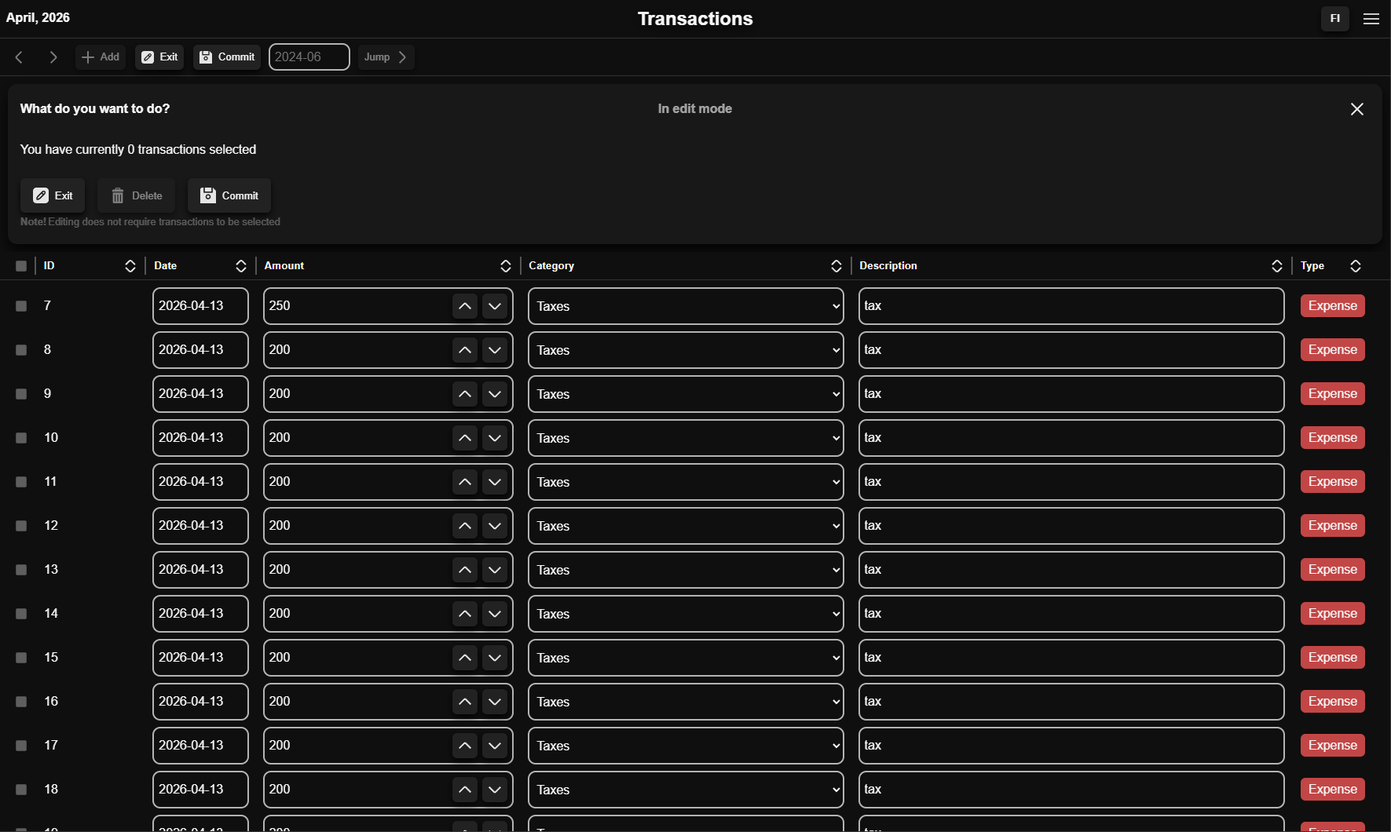
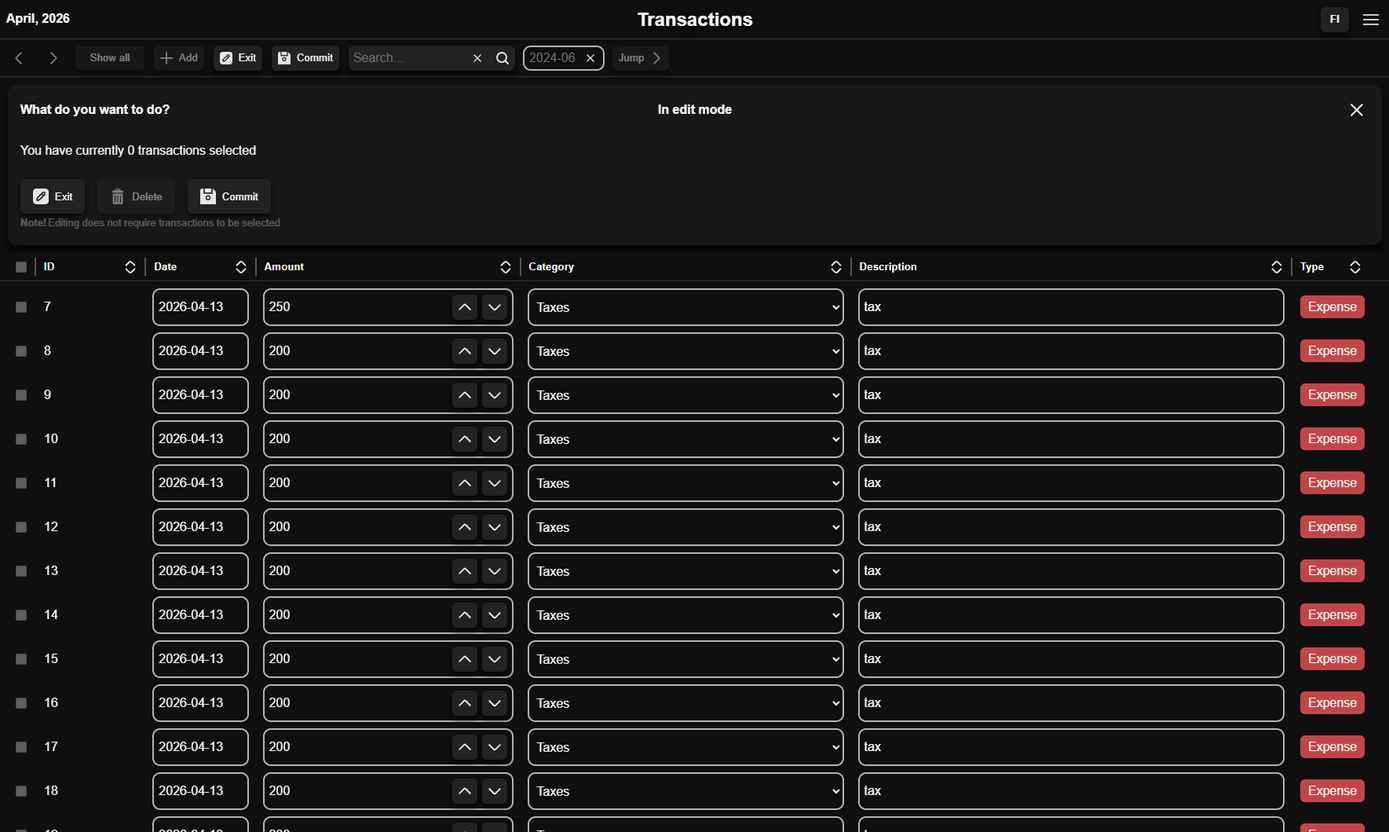
Feat: About me page   - Added an initial about me route   - Re-wrote project descriptions.   - Updated FinRadar project images.   - Adjusted media query to prevent overlap of the new about me route.

diff --git a/src/lib/i18n.ts b/src/lib/i18n.ts
@@ -5,7 +5,7 @@ type Language = 'en' | 'fi'
 
 const translations: Record<Language, Record<string, string | string[]>> = {
   en: {
-    "navigation.anchors.names": ["Home", "Projects"],
+    "navigation.anchors.names": ["Home", "Projects", "About me"],
     "page-not-found": ["Something went wrong.", "Page not found.", "The page you are looking for does not exist."],
   
     "project.finance-tracker.description": "My first project. A desktop and a web app for tracking, predicting, and visualizing finances.",
@@ -20,8 +20,8 @@ const translations: Record<Language, Record<string, string | string[]>> = {
     "project.focusboard.imagetexts": ["Make notes, customize and order them to your liking and keep everything neat with tabs.", "Add a timer to alert you, and optionally a message.", "Keep track of your events with the calendar.", "Get an in-depth perspective of your events for a selected day."],
     "project.focusboard.imagenotes": "All of the vertical grid lines might not be captured in the image.",
 
-    "project.fin-radar.description": "A polished, completely redone version of my first project, the finance tracker.",
-    "project.fin-radar.imagetexts": ["Your data is behind authentication.", "Your home page and menu. Add transactions and control your data.", "Table of your transactions. Add, edit and jump to specific dates.", "Make changes to your added transactions."],
+    "project.fin-radar.description": "A polished, completely redone version of my first project, the finance tracker. Also integrates FocusBoard.",
+    "project.fin-radar.imagetexts": ["Your data is behind authentication.", "Your home page and menu. Add transactions and control your data.", "Table of your transactions. View, add, edit and search your transactions.", "Make changes to your added transactions."],
 
     // ALERTS
     "alert.message.github": "Continue to GitHub?",
@@ -57,39 +57,53 @@ const translations: Record<Language, Record<string, string | string[]>> = {
     "projects.project.repository": "Project repository",
     "projects.project.imagetitle": "Project Images",
     "projects.project.finance-tracker.paragraph": [
-      "This was my first real project. The purpose behind this app was for it to be something I would personally use. Before this, I had only made simple stuff with Python like calculators, to-do lists, and basic CLI-based tools.",
-      "This was supposed to be a simple tracking app for finances made with Python and a combination of Tkinter and the modernized customTkinter for the GUI, but I decided to jump into machine learning since it had been a couple of years since I last had worked with ML \
-      and it was the next clear step for the app. When the app began to have functionality, I wanted to create an easy way to test it, so I decided to make a web app for it, which led me to learn some Django, JavaScript, CSS, and HTML. \
-      I also needed a platform to host it on and found NorthFlank, where I needed to learn how their app deployment works.",
-      "As I have continued to code, I have learned a lot along the way, and looking back at this app, naturally, I see there are many things I would do differently, and there are a lot of flaws in its code. \
-      My plan was to come back and fix its code, but that would require me to quite frankly write everything from scratch, which has led me to make the decision, that I would create the app on another stack, using Tauri, Svelte.js and Python. \
-      This also serves as a next step in my learning, where I need to figure out how I can combine Tauri's Rust backend with Python and make that work with the Svelte frontend."
+      "This project is a personal finance tracking application designed for managing expenses and analyzing spending patterns. It started as a desktop application built with Python (Tkinter + customTkinter) and later evolved into a web application using Django.",
+      "Key features the app includes:",
+      "• Expense tracking and categorization",
+      "• Authentication and authorization",
+      "• A machine learning component for predicting future expenses",
+      "• Data visualizations",
+      "To improve accessability, usability, and testing, I extended the project into a web app, which required learning Django, frontend basics (JavaScript, HTML, CSS), and deploying the appliaction using NorthFlank.",
+      "Looking back, the project has its limitations, especially in code structure. Instead of patching it, I decided to rebuild it using a more modern stack (Tauri + Svelte), while applying what I have learned about cleaner architecture and better coding practices."
     ],
     "projects.project.finance-tracker.variant": ["Desktop", "Web"],
     "projects.project.waste-classifier.paragraph": [
-      "This was my second project. The main reason for me to create this app was to bring back some concepts of ML and try refresh my memory. I had previous experience from a few years (in ~2024) back when I had coursework, where I needed to find the best model to classify tree species. \
-      Some of the models were VGGNet19 and 16, Inception, Xception, and ResNet and I used the TensorFlow Keras as the framework. But with this project I needed to use PyTorch and so I just jumped straight into it. Since it had been a long time since I last did anything with classifiers, \
-      and it was my first time using PyTorch, I relied a lot on other people's work. I did implement Optuna myself, since I had recently worked with it.",
-      "I wanted to use PyQt as my frontend so I went with that. I trained my own models and used the TrashNet dataset for training. I split the training to two stages, where the first stage was for training the model fast and getting the foundation up, \
-      and then the second stage for fine tuning and slower learning. I used MobileNetV4 initially, but switched to DenseNet201 since it was performing a lot better. MobileNetV4 is meant to be lightweight and compact, which is why I initially chose it, and is aimed for mobile devices. \
-      I was averaging around 79-87% accuracy with MobileNet, but got consistent results around 97% with DenseNet.",
-      "I would have liked to learn techniques on how to tackle machine vision to differentiate surfaces that share similar features, like gloss, reflectivity and so on, for example metal vs. glass vs. glossy plastic, since this was one of the main issues I think I had with the MobileNet model, \
-      where it repeatedly mistook these materials between each other, but found it extremely difficult, so I moved on to my other project."
+      "This project is an image classification application for sorting waste into categories using deep learning. The goal was to revisit machine learning concepts and apply them in a practical setting using PyTorch.",
+      "The model was trained on the TrashNet dataset using a two-stage training approach:",
+      "• Initial training phase to establish baseline performance",
+      "• Fine-tuning phase with slower learning for improved accuracy",
+      "I experimented with some models and found that DenseNet201 significantly outperformed MobileNet, achieving a consistent accuracy around 97%, compared to 79% - 87% with MobileNet.",
+      "The application includes a PyQt-based interface for interacting with the classifier.",
+      "One of the main challenges was distinguishing between visually similar materials (e.g. glass, metal, and glossy plastic), which exposed limitations in the model's ability to generalize based on surface properties. To address this, it would likely require more advanced feature engineering or dataset improvements."
     ],
     "projects.project.focusboard.paragraph": [
-      "This is my third ever project. I was interested in how some companies like Discord create their apps so I began investigating and found out they use something called Electron, which I didn't know anything about at that point in time. I found out that it uses a browser engine (Chromium) to render the app's UI, \
-      but runs natively like a desktop app. I explored other options and stumbled across Tauri, which uses Rust, and I had been curious about Rust so I chose this to run my next app, which was a note-taking/productivity-ish app. Tauri is used similarly to Electron, but doesn't use a full browser engine to render the app, \
-      but instead uses the operating system's native WebView (e.g. WebView2 on Windows and WKWebView on macOS).", "Next, I needed to choose the frontend and I had heard great things about Svelte.js and its performance so I went with that. As I have been working on this project, I have fallen in love with Tauri and Svelte, \
-      even though Rust is very different and a lot more difficult of a language when compared to others. I wouldn't say because its inherently difficult, but there are things and concepts that no other language really has, for example ownership.", "The motivation behind this app is the same as with my Finance Tracker, \
-      I am building this for myself. I know there are many options out there, like Microsoft's own app bundle (includes a calendar, to-do list, etc.), Obsidian, and Google NotebookLM, but by having my own application I get privacy and the ability to control everything, so if I am not the biggest fan of some feature, \
-      I can change and tweak it."
+      "This project is a desktop note-taking and productivity application built with Tauri and Svelte. The goal was to create a lightweight, private alternative to existing tools while maintaining full control over features and data.",
+      "The application includes:",
+      "• Note creation, organization, and customization",
+      "• Calendar and a timer with customizable notifications",
+      "I chose Tauri over Electron since it doesn't bundle a full browser engine and instead uses the operating system's native WebView, which reduces resource usage and application size. This decision also introduced Rust into the backend, which required learning concepts such as ownership.",
+      "One of the main challenges was working with components in Svelte, especially how to pass variables between the parent and child components.",
+      "This project is part of a broader effort to build tools I actively use myself."
     ],
     "projects.project.fin-radar.paragraph": [
-      "This is my fourth project. I am recreating my first project, but now with a lot more knowledge and experience. It is currently in its very early development."
+      "This project's aim is to bring together my past projects. It combines the finance tracker and FocusBoard applications into one.",
+      "The current functions of the app:",
+      "• Account registration, login, and recovery",
+      "• Home page",
+      "• Transactions table to view, edit, and search transactions",
+      "• Two localizations: English and Finnish",
+    ],
+
+    // ABOUT ME
+    "about-me.hobbies.titles": ["Mountain biking", "3D modeling & printing", "Programming"],
+    "about-me.hobbies.paragraphs": [
+      "Mountain biking is my way of staying active. I enjoy the technical skill and logical decisions you need on the trails.",
+      "I design and 3D print my own small projects, bringing solutions to my needs.",
+      "In my free time, I build programs for my needs. I always try to think of different options for my problem and and choose the most effective one in relation to the added complexity."
     ],
   },
   fi: {
-    "navigation.anchors.names": ["Koti", "Projektit"],
+    "navigation.anchors.names": ["Koti", "Projektit", "Tietoa minusta"],
     "page-not-found": ["Jokin meni pieleen.", "Sivua ei löytynyt.", "Sivua jota etsit ei ole olemassa."],
 
     "project.finance-tracker.description": "Työpöytä- ja verkkosovellus talousdatan seurantaan, ennustamiseen ja visualisointiin.",
@@ -104,8 +118,8 @@ const translations: Record<Language, Record<string, string | string[]>> = {
     "project.focusboard.imagetexts": ["Luo muistiinpanoja, muokkaa ja järjestä ne mieluisiksi ja pidä kaikki järjestyksessä välilehtien avulla.", "Lisää ajastin hälyttämään sinua ja vaihtoehtoisesti kiinnitä viesti.", "Seuraa tapahtumiasi kalenterista.", "Näe tapahtumasi valitsemasta päivästäsi tarkemmin aikajana näkymällä."],
     "project.focusboard.imagenotes": "Jotkin pystyviivat näkyvät huonosti.",
 
-    "project.fin-radar.description": "Siistimpi, valmiimpi, parempi ja täysin uudelleen rakennettu versio ensimmäisestä projektistani talousdatan seurantaan.",
-    "project.fin-radar.imagetexts": ["Tietosi ovat tunnistautumisen takana.", "Kotisivusi ja valikko. Lisää tilitapahtumia ja hallitse dataasi.", "Taulukko tilitapahtumistasi. Lisää, muokkaa ja käy läpi tapahtumiasi päivämäärä siirtymisen avulla.", "Muokkaa tilitapahtumiasi."],
+    "project.fin-radar.description": "Siistimpi, valmiimpi, parempi ja täysin uudelleenrakennettu versio ensimmäisestä projektistani talousdatan seurantaan. Yhdistää myös FocusBoardin itseensä.",
+    "project.fin-radar.imagetexts": ["Tietosi ovat tunnistautumisen takana.", "Kotisivusi ja valikko. Lisää tilitapahtumia ja hallitse dataasi.", "Taulukko tilitapahtumistasi. Selaa, lisää, muokkaa ja hae tapahtumiasi.", "Muokkaa tilitapahtumiasi."],
     
     // ALERTS
     "alert.message.github": "Siirrytkö GitHubiin?",
@@ -121,7 +135,7 @@ const translations: Record<Language, Record<string, string | string[]>> = {
     "intro-title1": "Hei! Olen",
     "intro-title2": "Niko Stenberg",
     "intro-title3": "Tuleva ICT-insinööri",
-    "intro-paragraph": "Intohimoinen järjestelmistä, turvallisuudesta, ohjelmoinnista/koodaamisesta ja kaikesta muusta näiden väliltä, voisi kutsua 'Full-stack' tai 'generalist'. Tykkään tietokoneista.",
+    "intro-paragraph": "Intohimoinen järjestelmistä, tietoturvasta, ohjelmoinnista/koodaamisesta ja kaikesta muusta näiden väliltä, voisi kutsua 'Full-stack' tai 'generalist'. Tykkään tietokoneista.",
     "contact-location": "Suomi, Kanta-Häme",
     "home.view-projects": "Projektit",
     "home.sub-content.knowledge.title": "Mitä tiedän",
@@ -141,35 +155,60 @@ const translations: Record<Language, Record<string, string | string[]>> = {
     "projects.project.repository": "Projektin arkisto (engl. repository)",
     "projects.project.imagetitle": "Projektin kuvat",
     "projects.project.finance-tracker.paragraph": [
-      "Tämä oli ensimmäinen kunnon projektini. Tarkoituksena oli tehdä sovellus, mitä itse olisin käyttänyt. Ennen tätä olin vain tehnyt yksinkertaisia asioita Pythonilla, kuten laskimia, to-do listoja ja CLI- tai komentorivi-pohjaisia työkaluja.",
-      "Sovelluksen piti olla suhteellisen yksinkertainen sovellus talousdatan seuraamiseen, mikä olisi pohjautunut Pythoniin ja käyttänyt Pythonin omaa Tkinteriä ja modernimpaa versiota, customTkinteriä, käyttöliittymänään (GUI:na), mutta päätin sisällyttää koneoppimista tehdäkseni ennusteita datasta, \
-      sillä se olisi ollut seuraava askel sovelluksen kehityksessä ja siitä oli useampi vuosi milloin viimeksi olin tehnyt jotain koneoppimismallien kanssa. Kun sovellus oli kehittynyt tarpeeksi, halusin että sovellusta voisi helposti testata ilman mitään sen suurempia, kuten lataamista yms., \
-      joten päätin tehdä verkkosovelluksen siitä. Tämän kautta opin jonkin verran Djangoa, JavaScriptiä, CSS:ää ja HTML:ää. Tarvitsin myös jonkin alustan missä sovellus olisi pyörinyt ja löysin NorthFlankin, jossa minun piti opetella miten heidän sovelluksen käyttöönotto (deployment) tapahtuu.",
-      "Olen oppinut paljon matkan varrella, kun olen jatkanut koodamista ja aika ajoin kun olen katsonut tätä projektia, huomaan miten nykyään tekisin monet asiat aivan erilailla, ja lisäksi miten projektin koodissa on paljon virheitä ja vikoja. Ajatuksenani oli ollut, että korjaisin koodin jossain kohtaa, \
-      mutta tämä oikeastaan tarkoittaisi sitä, että kirjoittaisin kaiken koodin alusta, mikä sai minut ajattelemaan jos koko sovelluksen tekisi muulla stackillä, eli Tauri + Svelte.js + Python. Tämä olisi myös seuraava askel oppimisessani, sillä minun tulisi saada Python kommunikoimaan Taurin backendin \
-      kanssa, mikä on Rustia."
+      "Tämä projekti on henkilökohtainen talousdatan seurantasovellus, jolla voit käsitellä menojasi ja nähdä kuluttamistasi. Sovellus oli aluksi työpöytä sovellus, joka oli rakennettu Pythonilla (Tkinter + customTkinter), mutta kehittyi myöhemmin verkkosovellukseksi käyttäen Djangoa.",
+      "Pääominaisuuksia sovelluksessa:",
+      "• Menojen seuranta ja kategoriointi",
+      "• Autentikaatio ja autorisaatio",
+      "• Koneoppimiskomponentti tulevien menojen ennustamiseen",
+      "• Data visualisaatioita",
+      "Parantaakseni saavutettavuutta, käytettävyyttä ja testaamista, laajensin projektia verkkotasolle. Se vaati minua oppimaan Djangon, frontendin perusteet (JavaScript, HTML, CSS) ja sovelluksen käyttöönoton (deployment) NorthFlankissä.",
+      "Jälkeenpäin katsoen projektilla on rajoituksensa, erityisesti koodin rakenteen suhteen. Sen sijaan, että olisin päivittänyt sitä, päätin rakentaa sen uudelleen käyttäen modernimpaa koodipinoa, engl. stack, (Tauri + Svelte) soveltaen oppimiani asioita paremmasta arkkitehtuurista ja koodamisen käytännöistä."
     ],
     "projects.project.finance-tracker.variant": ["Työpöytä", "Verkko"],
     "projects.project.waste-classifier.paragraph": [
-      "Tämä oli minun toinen projekti. Ensisijainen syy miksi tein tämän sovelluksen oli, koska halusin virkistää muistiani liittyen koneoppimiseen. Minulla oli aikaisempaa kokemusta parin vuoden takaa (noin 2024), jolloin minulla oli kursseja jossa minun piti löytää paras koneoppimismalli puulajien \
-      tunnistamiseen. Malleja joita käytin oli muun muassa VGGNet19 ja 16, Inception, Xception ja Resnet, ja kehyksenä (frameworkinä) käytin TensorFlow Keras:ia. Tässä projektissa minun kuitenkin tuli käyttää PyTorchia ja en kauheasti valmistellut vaan hyppäsin suoraan asiaan. \
-      Koska siitä oli jonkin verran aikaa kun olin tehnyt mitään luokittelijoiden (classifier) kanssa ja, kun tämä oli ensimmäinen kerta kun käytän PyTorchia, seurasin paljolti muiden ihmisten töitä. Optunan kylläkin implementoin itse, kun olin hetkittäin juuri työskennellyt sen kanssa.",
-      "Halusin käyttää PyQt:ta sovelluksen käyttöliittymänä (GUI), joten menin sillä. Harjotin omat mallini ja käytin TrashNet datasettiä harjottamisessa. Jaoin harjoituksen kahteen vaiheeseen/osaan, missä ensimmäinen oli harjoittaakseen mallia nopeasti ja rakentaa pohja sille, jonka jälkeen \
-      vaihe 2. oli hienosäätöä ja hitaampaa oppimista. Käytin MobileNetV4 aluksi, mutta vaihdoin DenseNet201:een, sillä se suoriutui huomattavasti paremmin. MobileNetin tarkoituksena on olla kevyt, joka oli syy miksi valitsin sen, ja se on tarkoitettu mobiililaitteille. Tulokseni pyöri 79-87% tarkkuuden \
-      välillä MobileNetillä, mutta sain säännöllisesti 97% ympyröissä DenseNetillä eri testeissä.",
-      "Olisin halunnut oppia eri tekniikoita, miten saada konenäkö erottamaan eri pintoja joilla on samankaltaisia ominaisuuksia, kuten kiilto ja heijastuskyky, esimerkiksi metalli vs. lasi vs. kiiltävä muovi, sillä tämä oli mielestäni yksi ongelmista mikä minulla tuli vastaan MobileNetillä. Mallini säännöllisesti \
-      ei osannut erottaa metallia, lasia ja muovia toisistaan. Tämä kuitenkin oli hyvin vaikeaa, joten jatkoin seuraavaan projektiini."
+      "Tämä projekti on kuvan luokittelu sovellus jätteen kategoriointiin käyttäen syvää oppimista. Tavoitteena oli kerrata koneoppimisen konsepteja ja laittaa ne käytäntöön käyttäen PyTorchia.",
+      "Malli on harjoitettu hyödyntäen TrashNet datasettiä ja kaksivaiheista harjoitusmallia:",
+      "• Ensimmäinen harjoitusvaihe asettaa perustason mallille",
+      "• Hienosäätö harjoitteluvaiheessa käytetään hitaampaa oppimista parantaakseen mallin tarkkuutta",
+      "Testailin joitakin malleja ja havaitsin, että DenseNet201 suoritui huomattavasti paremmin kuin MobileNet, saavuttaen tasaisen noin 97%:n tarkkuuden verrattuna MobileNetin 79-87%:iin.",
+      "Sovellus käyttää PyQt-pohjaista käyttöliittymää.",
+      "Yksi päähaasteista oli erottaa eri materiaalit toisistaan jotka olivat visuaalisesti samankaltaisia, esimerkiksi lasi, metalli ja kiiltävä muovi. Tämä toi esiin mallin yleistämisen, engl. generalization, rajat perustuen jätteiden pintojen ominaisuuksiin. Tämän ratkaisemiseksi todennäköisesti vaadittaisiin edistyneempää ominaisuussuunnittelua tai datasetin parannuksia."
     ],
     "projects.project.focusboard.paragraph": [
-      "Tämä on kolmas projektini, mitä olen tehnyt. Olin kiinnostunut miten yritykset kuten Discord tekevät sovelluksensa, joten selvitin sen ja löysin, että he käyttävät Electronia, mistä en tiennyt mitään. Perehdyin Electroniin ja opin, että se käyttää selainmoottori (browser engine) Chromiumia renderöidäkseen sovelluksen \
-      käyttöliittymän, mutta sovellus samaan aikaan toimii kuten mikä tahansa muu työpöytäsovellus. Tutustuin muihin vaihtoehtoihin ja törmäsin Tauriin joka käyttää Rustia kielenään, ja olin ollut hyvin kiinnostunut Rustista niin valitsin tämän sovellukseni pohjaksi, mikä oli pääasiassa muistiinpano-/tuottavuussovellus. \
-      Tauria käytetään samaan kuin Electronia, mutta se ei käytä kokonaista selainmoottoria sovelluksen renderöimiseksi, vaan käyttöjärjestelmän omaa WebView:iä (Windowsissa WebView2 ja macOS:ssä WKWebView).", "Seuraavaksi minun tuli valita frontend sovellukseni ja olin kuullut paljon hyvää Svelte.js:stä ja sen suorituskyvystä, \
-      joten valitsin sen. Sen kauemmin olen työstänyt tätä projektia, sen enemmän olen tykästynyt Tauriin ja Svelteen, vaikkakin Rust on jokseenkin erilainen ja huomattavasti vaikeampi kieli verrattuna muihin. En sanoisi, että Rust itsessään on mitenkään vaikeaa, mutta Rustissa on erilaisia asioita ja konsepteja joita ei muissa \
-      kielissä oikeastaan ole, kuten omistajuus.", "Syy sovelluksen kehittämiselle on ollut sama kuin minun talousdatan seurantasovelluksellakin, eli teen sovellusta omaan käyttöön. Tiedän, että on useita eri vaihtoehtoja olemassa kuten Microsoftin omat (sisältää kalenterin, to-do listan yms.), Obsidian ja Googlen NotebookLM, \
-      mutta oma sovellus antaa minulle yksityisyyttä ja kyvyn hallita asioita. Esimerkiksi, jos edellämainituissa sovelluksissa olisi jokin ominaisuus, josta en ole kauhean innoissani, voin muuttaa sitä."
+      "Tämä projekti on muistiinpano- ja tuottavuustyöpöytäsovellus, joka on rakennettu Taurilla ja Sveltellä. Tavoitteena oli rakentaa kevyt, yksityinen vaihtoehto olemassa oleville työkaluille.",
+      "Sovellus sisältää:",
+      "• Muistiinpanojen luonnin, järjestelemisen ja kustomoinnin",
+      "• Kalenterin ja ajastimen muokattavilla notifikaatioilla",
+      "Valitsin Taurin Electronin ylitse sillä se ei paketoi, engl. bundle, kokonaista selainmoottoria ja sen sijaan käyttää käyttöjärjestelmän omaa natiivia WebViewiä, mikä vähentää resurssien käyttöä ja sovelluksen kokoa. Tämä päätös toi Rustin osaksi backendiä, joka edellytti esimerkiksi omistajuuden oppimista.",
+      "Yksi päähaasteista oli komponenttien kanssa työskentely Sveltellä. Erityisesti muuttujien välittäminen pää- ja lapsikomponenttien välillä.",
+      "Tämä projekti on osa laajempaa pyrkimystä rakentaa työkaluja, joita itse käytän aktiivisesti."
     ],
     "projects.project.fin-radar.paragraph": [
-      "Tämä on neljäs projektini. Rakennan ensimmäisen projektini uudelleen, mutta tällä kertaa tietämyksellä ja kokemuksella, mitä minulle on kertynyt. Tällä hetkellä projekti on hyvin alussa kehitystään."
+      "This project's aim is to bring together my past projects. It combines the finance tracker and FocusBoard applications into one.",
+      "The current functions of the app:",
+      "• Account registration, login, and recovery",
+      "• Home page",
+      "• Transactions table to view, edit, and search transactions",
+      "• Two localizations: English and Finnish",
+
+      "Tämän projektin tarkoituksena on tuoda aikaisempia projektejani yhteen. Tämä yhdistää aikaisemman FocusBoard ja talousdatan seurantasovelluksen yhdeksi.",
+      "Nykyiset sovelluksen toiminnot",
+      "• Kirjautuminen, tilinluonti ja -palautus",
+      "• Kotisivu",
+      "• Tilitapahtumien taulukko tapahtumien katsontaan, muokkaamiseen ja etsimiseen",
+      "• Kaksi lokalisaatiota: englanti ja suomi",
+    ],
+
+    // ABOUT ME
+    "about-me.paragraph": [
+      "Olen ICT-insinööriopiskelija, joka nauttii asioiden rakentamisesta sekä ruudulla että sen ulkopuolella. Vietän paljon aikaa maastopyöräilessä sekä 3D-suunnittelussa ja -tulostamisessa, kun minulla on jokin idea.",
+      "Tykkään työskennellä käytännönläheisten ideoiden parissa. Erityisesti sellaisten, joissa voin siirtyä ideasta johonkin konkreettiseen asiaan, olipa se ohjelmisto tai fyysinen esine."
+    ],
+    "about-me.hobbies.titles": ["Maastopyöräily", "3D-mallentaminen & -tulostaminen", "Ohjelmointi"],
+    "about-me.hobbies.paragraphs": [
+      "Maastopyöräily on tapani pysyä aktiivisena. Nautin teknisen taidon ja loogisten päätöksien yhdistelmästä poluilla.",
+      "Suunnittelen ja 3D-tulostan omia pieniä projekteja, tuoden ratkaisuja tarpeisiini.",
+      "Vapaa-ajallani koodaan sovelluksia omiin tarpeisiini. Yritän aina miettiä eri vaihtoehtoja ongelmaani ja valita tehokkaimman niistä suhteessa lisättyyn kompleksisuuteen."
     ],
   }
 };

diff --git a/src/routes/+layout.svelte b/src/routes/+layout.svelte
@@ -10,14 +10,14 @@
   import '../styles.css';
 	import Alert from '../components/Alert.svelte';
 
-  type NavRoute = "/" | "/projects";
+  type NavRoute = "/" | "/projects" | "/about-me";
 
 	let { children } = $props();
   let windowWidth = $state(0);
   let backBtnBottom = $state<string>('unset');
   let alertsContainerBottom = $state<number>(30);
   let hasScrolled = $state<boolean>(false);
-  const mainRoutes = ["/", "/projects"];
+  const mainRoutes = ["/", "/projects", "/about-me"];
   let selectedProjectId = $state<number | null>(null);
 
   onNavigate(({ from, to, complete }) => {
@@ -236,7 +236,7 @@
   }
 
   @keyframes fade-out {
-    to { opacity: 1; }
+    to { opacity: 0; }
   }
   @keyframes fade-in {
     from { opacity: 0; }
@@ -248,7 +248,7 @@
     }
   }
 
-  @media (max-width: 500px) {
+  @media (max-width: 620px) {
     #nav-bar {
       justify-content: center;
       height: 150px;
@@ -261,6 +261,7 @@
 
     #nav-links {
       align-self: flex-end;
+      width: 100%;
     }
 
     #link-btns {

diff --git a/src/routes/about-me/+page.svelte b/src/routes/about-me/+page.svelte
@@ -1,0 +1,23 @@
+<script lang="ts">
+  import { t } from "$lib/i18n";
+</script>
+
+<div id="about-me-container" class="vertical-flex-box">
+  {#each $t["about-me.hobbies.titles"] as title, i (i)}
+    <h2>{title}</h2>
+    <p>{$t["about-me.hobbies.paragraphs"][i]}</p>
+  {/each}
+</div>
+
+<style>
+  #about-me-container {
+    align-items: flex-start;
+    gap: 1rem;
+    padding: 1rem;
+    max-width: 50%;
+  }
+
+  #about-me-container h2:first-of-type {
+    margin-top: 0;
+  }
+</style>

diff --git a/src/lib/projects.ts b/src/lib/projects.ts
@@ -63,7 +63,7 @@ export const projects: Project[] = [
     slug: "waste-classifier",
     descriptionKey: "project.waste-classifier.description",
     paragraphKey: "projects.project.waste-classifier.paragraph",
-    tech: ["Python", "PyTorch", "PyQt 6"],
+    tech: ["Python", "PyTorch", "PyQt 6", "Optuna"],
     picture: "/images/waste-classifier4.png",
     allPictures: [
       { id: 1, pic: "/images/waste-classifier1.png" },
